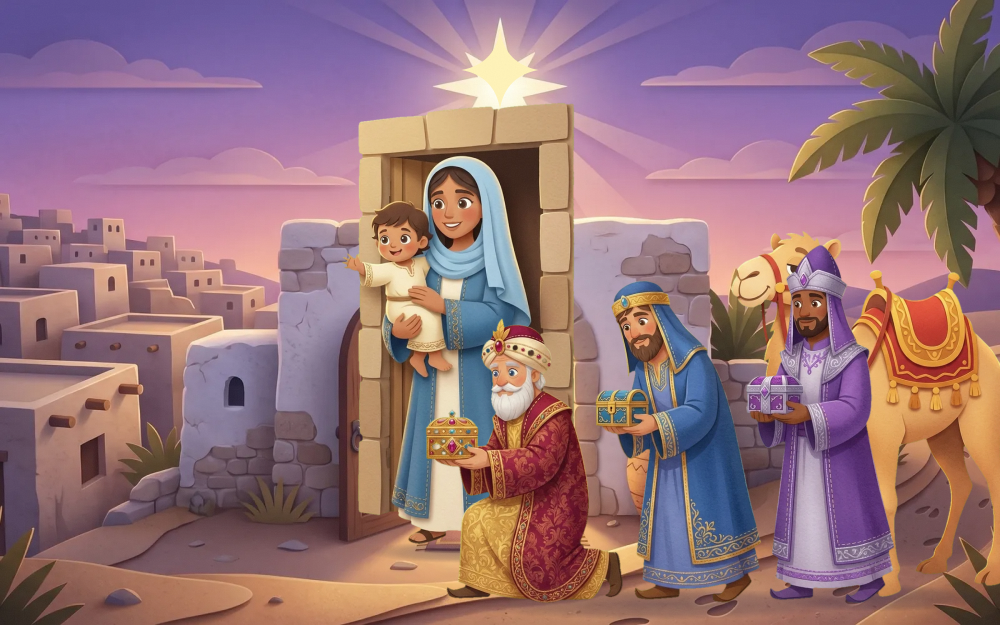
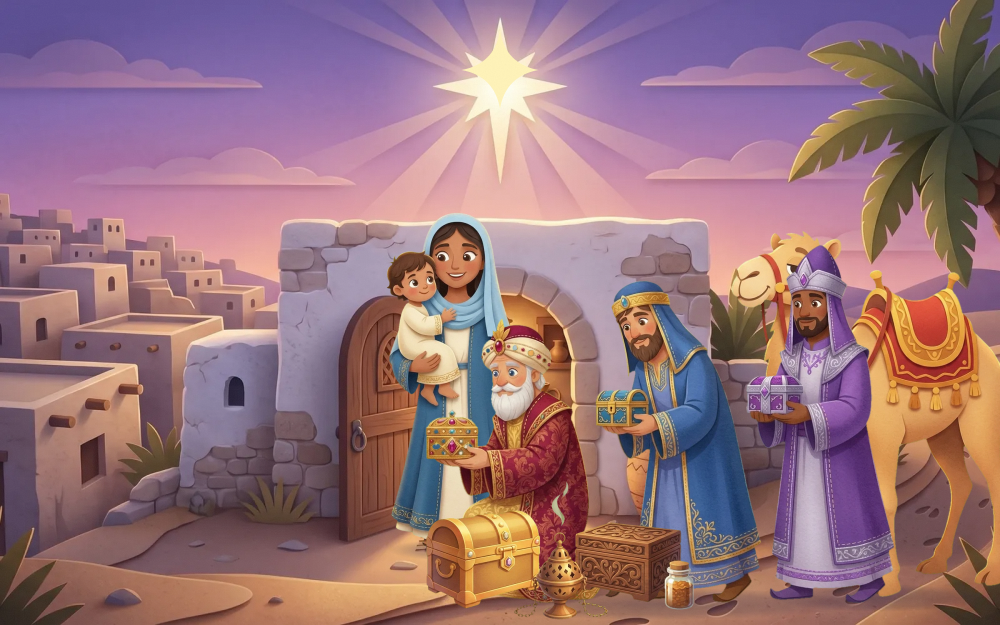
Christmas wise-men page: frameless Mary in the doorway and faceless gifts
Credit restored; the two queued regenerations landed. Mary stands in the
background's own doorway at normal scale and the gifts return as a layer
and hotspot in front of the kneeling king.

Changed region(s): [[0.341, 0.152, 0.713, 1.0]]

diff --git a/src/scenes/christmas.tsx b/src/scenes/christmas.tsx
@@ -36,6 +36,7 @@ import wisemenBg from "../assets/scenes/christmas/wisemen/bg.webp";
 import wisemenMen from "../assets/scenes/christmas/wisemen/wise-men.webp";
 import wisemenMary from "../assets/scenes/christmas/wisemen/mary-child.webp";
 import wisemenCamel from "../assets/scenes/christmas/wisemen/camel.webp";
+import wisemenGifts from "../assets/scenes/christmas/wisemen/gifts.webp";
 import type { SceneArtProps } from "../types";
 
 /** Nazareth: Gabriel tells Mary. Late sun through the window, a dove at the door. */
@@ -332,16 +333,14 @@ export function TheWiseMen({ found }: SceneArtProps) {
         className="a-breathe-slow"
         delay={1.3}
       />
-      {/* Mary's cutout carries its own stone doorway; scaled so it stands in for the
-          background's door (a regeneration without the frame is pending API credit). */}
-      <SoftShadow x={458} y={552} rx={90} ry={11} opacity={0.4} />
+      <SoftShadow x={458} y={550} rx={70} ry={11} opacity={0.4} />
       <Layer
         src={wisemenMary}
         w={L["mary-child"].w}
         h={L["mary-child"].h}
         x={458}
-        y={550}
-        scale={0.56}
+        y={548}
+        scale={0.42}
         className="a-breathe"
       />
       <SoftShadow x={660} y={604} rx={200} ry={16} opacity={0.4} />
@@ -355,7 +354,8 @@ export function TheWiseMen({ found }: SceneArtProps) {
         className="a-breathe-slow"
         delay={0.4}
       />
-      {found.includes("gifts") && <Sparkle x={560} y={470} s={1.6} />}
+      <Layer src={wisemenGifts} w={L.gifts.w} h={L.gifts.h} x={560} y={620} scale={0.4} />
+      {found.includes("gifts") && <Sparkle x={560} y={540} s={1.6} />}
       <Grain opacity={0.05} />
     </>
   );

diff --git a/src/data/stories/christmas.ts b/src/data/stories/christmas.ts
@@ -240,14 +240,14 @@ export const christmas: Story = {
       },
       verse: "Matthew 2:10–11",
       find: {
-        prompt: "Find the gifts the wise men brought.",
+        prompt: "Find the three gifts.",
         targets: ["gifts"],
       },
       hotspots: [
         {
           id: "gifts",
-          x: 55,
-          y: 78,
+          x: 56,
+          y: 92,
           size: 18,
           label: "the gifts",
           reward: "Gold for a king, frankincense for God, myrrh for a Saviour.",

diff --git a/handoff.md b/handoff.md
@@ -14,9 +14,9 @@ secret scan or audit). The latest increment closes that gap with local gates.
 
 Latest: **The First Christmas (roadmap phase 4, story 1)**: six rich pages
 (2K backgrounds, 25 cutouts, five new sheets), story data, scenes,
-registered; 148 tests, 33 scenes motion-clean, precache 7.84 MB. **Gemini
-prepaid credit is exhausted**: two regenerations pending (frameless Mary on
-the wise-men page, faceless gifts), and stories 2–5 wait for a top-up.
+registered; 148 tests, 33 scenes motion-clean, precache ~7.9 MB. Credit ran
+out after the first pass, was topped up, and the two regenerations (frameless
+Mary, faceless gifts) landed; the wise-men page is final.
 Evidence: `docs/evidence/2026-09-18-christmas-story/record.md`.
 
 Before that: **Church pilot prep (roadmap phase 5).** Opt-in Group pilot log
@@ -173,7 +173,6 @@ after any stylesheet edit, run `document.getAnimations()` on a migrated page.
 - [x] Phase 0 skipped by the owner (churches requested the product); kit kept for pilot sessions.
 - [x] Order confirmed 2a → 5 → 4 → 6 → 7 ("proceed", 2026-09-18).
 - [ ] **Owner reviews The First Christmas** (`docs/evidence/2026-09-18-christmas-story/christmas-*.png`, then `#/story/christmas/0`).
-- [ ] **Owner tops up Gemini credit**; then regenerate `christmas/wisemen` `mary-child` (no doorway) and decide on a gifts layer.
 - [ ] **Owner decides how Jesus is drawn** from story 2 (calming the storm) onward.
 - [ ] **Owner starts the pilot**: pick two or three groups, install on their tablets, switch on Group pilot, hand over `docs/pilot/`. Four weeks.
 - [ ] 2a licensing still parked; the pilot's no-redistribution note stands in for it.

diff --git a/docs/evidence/2026-09-18-christmas-story/record.md b/docs/evidence/2026-09-18-christmas-story/record.md
@@ -76,10 +76,21 @@ credit returns.
 
 ## Gaps
 
-- **Gemini credit exhausted.** Two regenerations pending (frameless Mary
-  for the wise-men page; gifts without faces if a separate gifts hotspot
-  is wanted). Stories 2–5 cannot start until the owner tops up.
+- Credit restored and the two regenerations done (follow-up below).
 - No human review of the six pages yet (`christmas-*.png`, then the app).
 - The Jesus-depiction decision for story 2 onward is still the owner's.
 - Download-a-story ships before story 3 (precache would pass 12 MB).
 - Real-device check open, as for every story.
+
+## Follow-up: credit restored, two regenerations done
+
+The owner topped up the Gemini prepay; the API kept answering 429 for
+about twenty minutes, then the retry loop succeeded (21:2x). `mary-child`
+regenerated without a doorway (344×800, 44 KB) and stands in the
+background's doorway at scale 0.42; `gifts` regenerated with "inanimate,
+no faces" (672×350, 50 KB) and is back as its own layer and hotspot
+(56 %, 92 %) in front of the kneeling king. Scene 382 KB. Cutouts on green
+`wisemen-regenerated-cutouts.png`; sidecars `mary-child-sidecar.json`,
+`gifts-sidecar.json`; render `christmas-wisemen.png` replaced; browser
+still `wisemen-hotspot-phone.png`. Motion 33 clean, data tests pass.
+Total calls for the story: 38.

diff --git a/docs/roadmap.md b/docs/roadmap.md
@@ -226,8 +226,8 @@ current five stories) → 4 → 6 → 7. Owner to confirm.
 - **Status:** started 2026-09-18 on the owner's instruction ("very rich and
   detailed"). Story 1, The First Christmas, built: six pages, 2K
   backgrounds, 25 cutouts, five new character sheets; in the app and under
-  the hook. **Blocked for further generation: Gemini prepaid credit
-  exhausted** (two regenerations pending). Order changed on purpose: two
+  the hook; credit ran out after the first pass, was topped up, and the two
+  pending regenerations landed. Order changed on purpose: two
   stories before download-a-story so the richness is reviewable early;
   the feature ships before story 3. Jesus-depiction decision still open
   for story 2.
